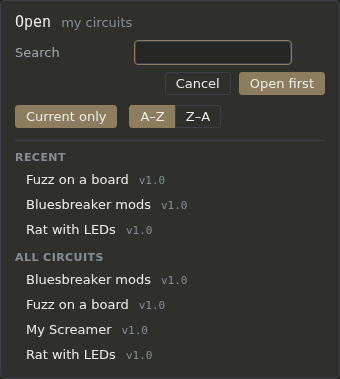
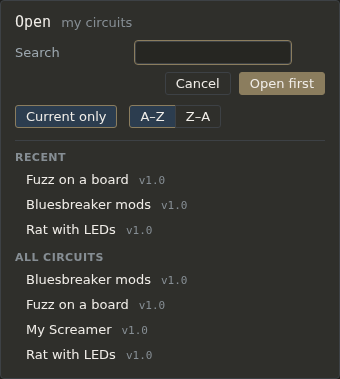
The guide for panes and toggles; every picture taken again; PANES-SPEC to docs/specs
First pedal, Stripboard and Settings say how the side panes hide and come
back and what the one "on" look means; the pictures show the new look.

Changed region(s): [[0.0294, 0.2612, 0.3529, 0.3483], [0.3824, 0.2612, 0.5294, 0.3483]]

diff --git a/docs/specs/PANES-SPEC.md b/docs/specs/PANES-SPEC.md
@@ -1,0 +1,53 @@
+# Panes and toggles: one "on" look, and side panes that hide
+
+The user, 2026-11-25/26. Two pieces of app chrome, built together because both change how the app looks everywhere: **D-407** (one "on" look) and **D-408** (side panes that hide).
+
+## A. One "on" look (D-407)
+
+**Goal.** Every toggle and tab shows "on" the same way, and solid brass only ever means "do it".
+
+**The rule** (the user, 2026-11-26): **ocean with a brass edge for "on", solid brass for "go".**
+- "On" = `background: var(--info-bg)` (ocean), `border-color: var(--accent)` (brass), `color: var(--text)`: what the palette's active tile and the review's After / Before / Both already had, as `docs/DESIGN.md` says (the active tool is `--info-bg`). In the Dark and Light themes the accent is their blue.
+- "Go" = solid brass (`button.primary`: Apply, Save, Keep try n, Continue, Stop and keep the best; a stale Run). Nothing else is solid brass.
+
+**What changed** (four looks became one):
+- One rule near the top of `web/app.css` for `button[aria-pressed="true"]`, `button[aria-checked="true"]` and `button.active`, hovered or not: any toggle, tab row (`role="radio"` with `aria-checked`) or active tool without a rule of its own is right by default. That covers the Notes pane's General / Parts & nets, the knobs' positions, the Scope's and the Audio pane's pick levels, Bias & headroom's charts and tones, Edit by, the Open and Blocks windows' list orders and Current only, the calculators' band counts and filters.
+- `.board-toggle`: its outline rule (D-406) removed, so Cuts, Links, Suggest next, the Settings toggles, Hide parts and Flip take the one look.
+- The header's **Board** (`.board-button`): gains the brass edge, and keeps the look when hovered.
+- `.compact-modes`' own rule removed (it was already the look).
+- The gain box's **Try** / **Trying** (`.fix-option`): it was brass-filled with brass text (the global pressed rule plus its own); its rule removed, so Trying is "on".
+- Left as they are: `.chain-block` and the chain key (copper `--picked`, D-127: the stage picked, not a toggle); the Frequency pane's **Pin** (its edge the pinned curve's colour, so it names the curve, D-366); menu items' ✓.
+
+**Tests.** `tests/ui/test_on_look.py` reads computed styles: the palette's Wire tile, a Notes tab (also hovered), an After / Before / Both button, the Board button (also hovered) and a pressed board toggle all have the `--info-bg` background and `--accent` edge; a `.primary` button's background is `--accent`.
+
+## B. Side panes that hide (D-408)
+
+**Goal.** Give the canvas the whole width when you want it, in the schematic and the Board view, without losing your place.
+
+**What the person gets.**
+- Each view has two side panes: the left (the palette in the schematic; Cuts / Links and the tray in the Board view) and the right column (the result panes; the board's panes).
+- Each side can be **hidden** and **shown** again. Hidden, it takes no width: the canvas grows into the space and the drawing keeps its zoom and its place on screen (the view box grows at the edge that moved; nothing jumps).
+- **A tab on the canvas's edge** where the hidden pane was (`›` on the left, `‹` on the right), its tooltip naming the side and its key (*Show the parts ([)*, *Show the results (])*, *Show the tray ([)*, *Show the board's panes (])*). A click brings the pane back **pinned**, in its place.
+- **Keys:** `[` toggles the left side, `]` the right, in both views. They work typed with Alt too (on a Portuguese Mac `[` is Option+8), not with Ctrl. In Help → Hot keys under *Side panes (either view)*.
+- **View menu:** *Hide left pane* / *Hide right pane* (*Show …* while hidden), with the keys as hints.
+- **Remembered per view and per side**, kept by the server with the pane order and large views (`solum.sides`, D-311), so the Board view can keep its tray hidden while the schematic keeps its palette, and it follows the person to any browser.
+- **Large views** (the user, 2026-11-25): an expanded pane stays as it is when its column is hidden, open or shrunk to its bar. Its **Collapse** puts it back in its column; if that column is hidden, the column is shown first, so it lands in sight. (A hidden column's panes can't be expanded: their Expand is on their bar in the column.)
+- **The full layout's review** (D-406), at the top of the board's right column: when a review opens, a hidden right column is shown once, so its result is seen. It can be hidden again during the review (the user: "why not?"): the yellow outline still says you're reviewing, and the edge tab says *Show the review (])*. The column can be hidden while the layout runs, too.
+- **Inspector and pop-ups** (the part form, History, ⓘ pop-ups): unaffected.
+
+**How it works.**
+- `web/side-panes.js`: the state as plain data (`readSides`, `withSide`, `tabTitle`), and `sidePanes(host, {columns, view, keepPlace})` putting it on the page, given callbacks by `app.js` (D-284). The keys are `editor/keys.js`' `leftPane` / `rightPane`, allowed in the Board view.
+- Hidden = the column slid out past the workspace's edge by a negative margin of its own width (`--side-w`; `.workspace` clips) and `visibility: hidden`, not `display: none`: it keeps its layout and scroll, can't be focused, and a pane out as a large view (`position: fixed`) stays visible (`.side-hidden > .large-view`).
+- The drawing stays still: the change runs inside the schematic's or the board's `keepPlace` (the review's Before board too), which uses `viewport.holdView` (each point kept under the same pixel). A window resize still keeps the middle (D-164).
+- `panels.js` `onBackInColumn` tells the side panes before a large view goes back into its column; `compact-run.js` tells the Board view when the review opens or closes (`reviewing`).
+
+**Tests.** JS logic (`tests/ui/test_js_logic.py`): `holdView`, the state read, turned over and shown, the tab's words, the keys. UI (`tests/ui/test_side_panes.py`): the schematic's right then left side hidden (key, View menu), the canvas wider by their widths and a part under the same pixel, kept after a reload, the edge tabs bringing them back; the Board view's tray hidden with the board still, the schematic's palette unaffected; a large view staying out and its Collapse showing the column; a review opening showing the hidden right column, hidden again and brought back by the tab with the review still open.
+
+**Out of scope.** Resizing the panes by dragging; floating drawers; hiding the header.
+
+**Open questions, taken as assumed** (for the user to confirm):
+1. An unpinned drawer sliding **over** the canvas from its tab? **No for now**: the tab brings it back pinned; nothing covers the drawing. A later phase if wanted.
+2. Keys `[` and `]`? **Yes** (both were free).
+3. Hidden state remembered per view? **Yes.**
+4. A View-menu item too? **Yes.**
+5. (Found while building) Kept by the server, not in the browser as first proposed: the pane order and large views are, and this is the same kind of preference.

diff --git a/docs/guide/stripboard.md b/docs/guide/stripboard.md
@@ -16,6 +16,8 @@ The Board view swaps the screen around:
 - **The board** in the middle, at real proportions, seen from the parts side. The line under it gives its size, cuts, links and wires: *20 × 16 holes (51 × 41 mm), 20 cuts, 11 links, 14 wires*.
 - **The board's panes** on the right, in the result panes' place: **Warnings**, **Notes**, **Schematic** (a small copy; selecting a part lights it on both drawings; **Expand** shows it large over the board), **Nets** and **Settings**. They move and fold as the result panes do, and keep their own order. Back in the schematic the result panes return as they were.
 
+**[** and **]** hide the tray and the board's panes here as they hide the palette and the result panes in the schematic, and the tab on the canvas's edge brings each back. The Board view keeps its own: hide the tray here and the palette stays in the schematic.
+
 Undo, Redo and History follow the view: the board has its own steps, so undoing on the board never undoes a schematic change. Save keeps both.
 
 ## The tray
@@ -152,7 +154,7 @@ While it runs, a window shows its progress and the best board so far (*Best so f
 
 ### Looking before you keep it
 
-When it's done, **Review the layout** opens at the top of the right-hand column and compares the two: *Before 34 × 13 holes, 14 cuts, 15 links → After 15 × 7 holes, 11 cuts, 6 links*. Until you keep a board, the canvas has a yellow outline and the board can't be edited: the tray, the panes, Cuts and Links are faded. **Flip** and **Hide parts** still work, on both boards in Both, and so does T for See-through.
+When it's done, **Review the layout** opens at the top of the right-hand column and compares the two: *Before 34 × 13 holes, 14 cuts, 15 links → After 15 × 7 holes, 11 cuts, 6 links*. Until you keep a board, the canvas has a yellow outline and the board can't be edited: the tray, the panes, Cuts and Links are faded. **Flip** and **Hide parts** still work, on both boards in Both, and so does T for See-through. If you'd hidden the right-hand column, it comes back as the review opens; you can hide it again (**]**) to look at the board, and the tab on the canvas's edge, *Show the review*, brings it back.
 
 ![Review the layout in Both: the board before above, the new one below](img/board-review.png)
 
@@ -164,7 +166,7 @@ The layout is the app's: check it, and adjust it if you need to, before you buil
 
 ## Board settings
 
-The Settings pane's buttons turn each setting on (outlined) or off. They're remembered for you on this computer, for every circuit.
+The Settings pane's buttons turn each setting on (shaded, with an edge in the highlight colour) or off. They're remembered for you on this computer, for every circuit.
 
 Under **Show**:
 - **Values**: label each part with its value as well as its ref.
@@ -176,7 +178,7 @@ Under **While editing**:
 - **Auto-grow**: the board grows to take in what's placed past its edge.
 - **Allow shorts**: a move that makes a short is allowed, and the short is shown red. Off, it's refused.
 
-**Clear board**, at the bottom, asks first. **Suggest next**, in the tray's heading, turns the suggestion at the top of the tray on or off. **Hide parts** and **Flip** are on the board's own bar, outlined while they're on.
+**Clear board**, at the bottom, asks first. **Suggest next**, in the tray's heading, turns the suggestion at the top of the tray on or off. **Hide parts** and **Flip** are on the board's own bar, shaded while they're on.
 
 A trimmer goes on as the square single-turn kind (triangle, Bourns 3362P) unless its form's **Board trimmer** says in line (Bourns 3296W); a placed one's right-click menu changes it too. A surface-mount transistor goes on the board on a TO-92 adapter, set by its form's **Mounting**.
 

diff --git a/docs/guide/first-pedal.md b/docs/guide/first-pedal.md
@@ -10,6 +10,9 @@ This page takes you from an empty sheet to a working one-knob JFET boost in abou
 - **The parts palette**, on the left: every part you can place, in groups (Wiring, Passive, Semiconductors, Signal & power, Misc). Hover a tile to see its key: R for a resistor, C for a capacitor, and so on.
 - **The sheet**, in the middle, where you draw. The +, − and Fit buttons are at its bottom right; the line under it says what a click does.
 - **The panes**, on the right: Problems, Notes, DC, Probe, Frequency, Bias & headroom, Scope, Harmonics, Knobs & switches and Audio. Click a pane's title to fold it; drag its grip (⋮⋮) to move it. View → Reset pane order puts them back; File → **Settings…** picks the theme (Solum, Dark or Light): see [Settings](settings.md). A pane with an **ⓘ** says what it shows and how to read it; a pane with **Expand** opens a large view over the sheet.
+- **More room**: **[** hides the palette and **]** the panes (View → **Hide left pane** and **Hide right pane** too), so the sheet takes the whole width without moving. A small tab on the sheet's edge, **›** or **‹**, brings the side back; the app remembers which sides you hid. A pane out as a large view stays out; its **Collapse** brings the panes back.
+
+A button that's on (the tool you're using, a chosen tab, a setting) is shaded, with an edge in the theme's highlight colour (brass in Solum). A button filled with that colour does something: **Apply**, **Save**, and **Run** when the circuit has changed since the last run.
 
 ## 1. A new sheet
 

diff --git a/docs/guide/settings.md b/docs/guide/settings.md
@@ -29,6 +29,6 @@ Three themes: **Solum** (the app's own colours: warm dark, brass highlights), **
 
 ## What the app remembers
 
-The theme, **Auto-run**, the order of the panes, which panes are open and which are out as large views are kept with your files, not in the browser. So they are the same in any browser you open the app from, and they survive clearing the browser's data. View → **Reset pane order** puts the panes back.
+The theme, **Auto-run**, the order of the panes, which panes are open, which are out as large views and which side panes you hid are kept with your files, not in the browser. So they are the same in any browser you open the app from, and they survive clearing the browser's data. View → **Reset pane order** puts the panes back.
 
 Smaller things stay with the browser you set them in (in the Mac app, until you quit it): how far the pane list is scrolled, list or grid in the Open and Blocks windows, the Frequency pane's layers, the Audio pane's picks, View's **Capacitor types** and **Problem marks**, and the stripboard's own switches and the Layout window's last choices ([Stripboard](stripboard.md#board-settings)).
